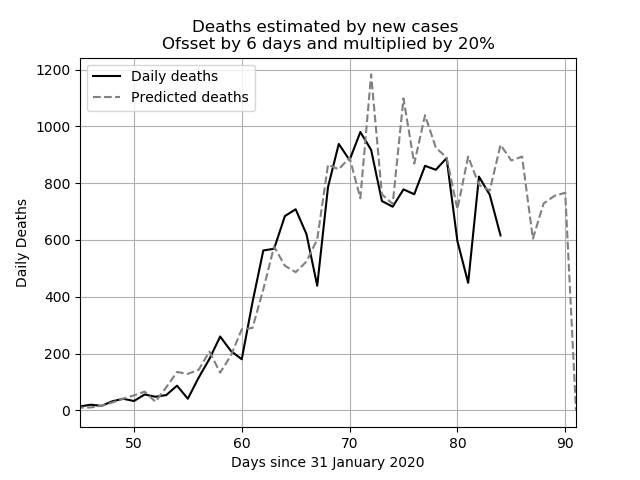
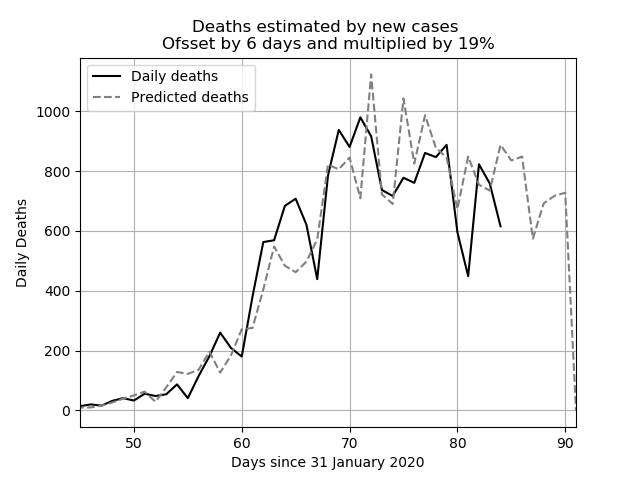
Daily run

diff --git a/src/curvefit.py b/src/curvefit.py
@@ -57,7 +57,7 @@ def exp_fit(cases, days, predicted_days):
     ans = (param[0]*param[1]**predicted_days)
     return ans, param, param_cov
 
- curve_fit() function takes the test-function
+#curve_fit() function takes the test-function
 # x-data and y-data as argument and returns
 # the coefficients a and b in param and
 # the estimated covariance of param in param_cov

diff --git a/README.md b/README.md
@@ -48,7 +48,7 @@ Output Details
 [[ 3.54416252e+01 -2.98932568e-02]
  [-2.98932568e-02  2.56768872e-05]] <br/>
 <h3>Best offset and factor for third graph</h3>
-6 20%
+6 19%
 <h4>Average Error</h4>
-48.61
-<br /><br />Last updated on 2020-04-23 15:31:57.879332
+46.51
+<br /><br />Last updated on 2020-04-23 16:39:00.469782

diff --git a/out/fit.md b/out/fit.md
@@ -9,7 +9,7 @@
 [[ 3.54416252e+01 -2.98932568e-02]
  [-2.98932568e-02  2.56768872e-05]] <br/>
 <h3>Best offset and factor for third graph</h3>
-6 20%
+6 19%
 <h4>Average Error</h4>
-48.61
-<br /><br />Last updated on 2020-04-23 15:31:57.879332
+46.51
+<br /><br />Last updated on 2020-04-23 16:39:00.469782
